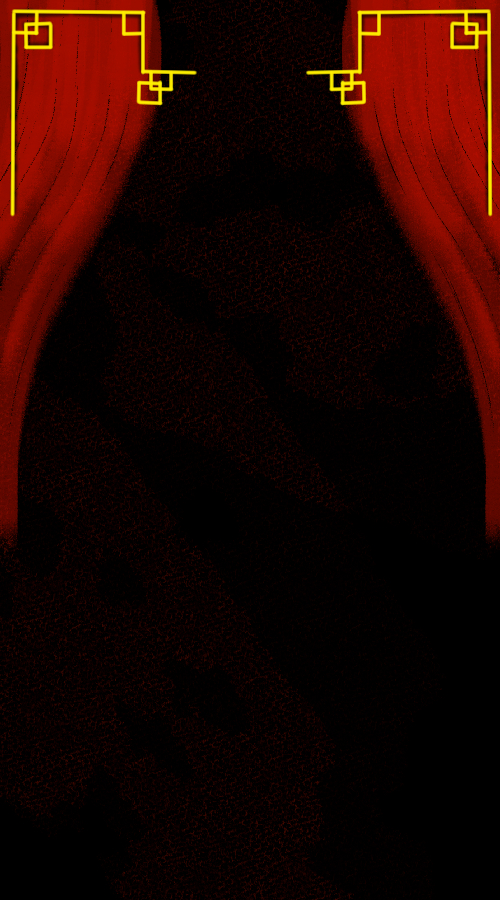
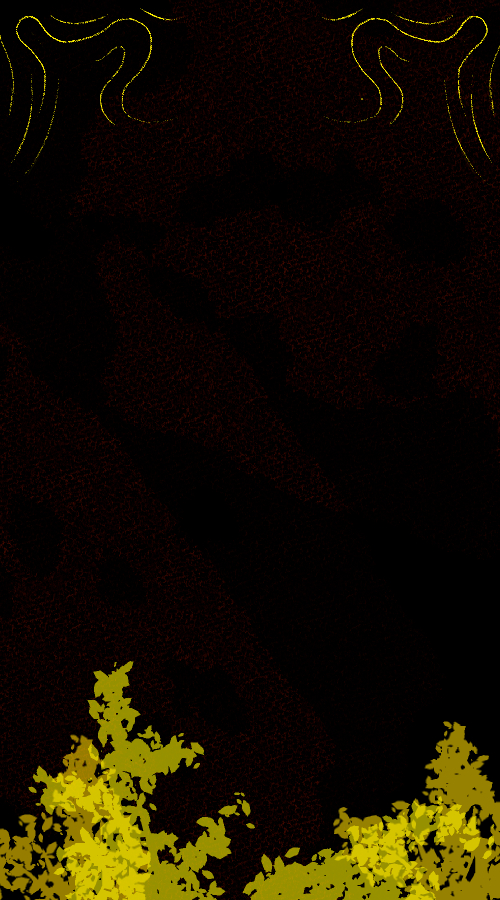
megumi3

diff --git a/src/app/page.jsx b/src/app/page.jsx
@@ -1,10 +1,21 @@
+import Image from "next/image";
 import styles from "./styles/index.module.scss";
-
+import menuData from "./data/menus.json"
 
 export default function Home() {
   return (
-    <main className={styles.home}>
-      <div>megumi entradas</div>
-    </main>
+    <div className={styles.menuContainer}>
+    <h1>Menú</h1>
+    <div className={styles.menuItems}>
+      {menuData.menu.map(item => (
+        <div key={item.nombre} className={styles.menuItem}>
+          <Image src={item.imagen} alt={item.nombre} width={280} height={250} loading="lazy" />
+          <h2>{item.nombre}</h2>
+          <p>Precio: ${item.precio}</p>
+          <p>{item.descripcion}</p>
+        </div>
+      ))}
+    </div>
+  </div>
   );
 }

diff --git a/src/app/styles/index.module.scss b/src/app/styles/index.module.scss
@@ -1,3 +1,23 @@
 @use "./components/Logo";
 @use "./components/Navbar";
 @use "./components/Home";
+
+.menuContainer {
+    border: 1px solid #fff;
+    text-align: center;
+    color: #fff;
+
+    & .menuItems {
+        padding: 2%;
+        border: 1px solid #fff;
+
+        & .menuItem {
+            border: 1px solid #fff;
+            color: #ff0000;
+
+            // & img {
+            //     width: 100%;
+            // }
+        }
+    }
+}

diff --git a/src/app/globals.css b/src/app/globals.css
@@ -15,6 +15,6 @@ body {
  body {
   /* background: linear-gradient(360deg, #000, #fc1302, #000, #000, #000, #000); */
   background-image: url("/fondo.jpg");
-  background-repeat: no-repeat;
-  background-size: 100% 100%;
+  /* background-repeat: no-repeat; */
+  background-size: 100% 35%;
  }
